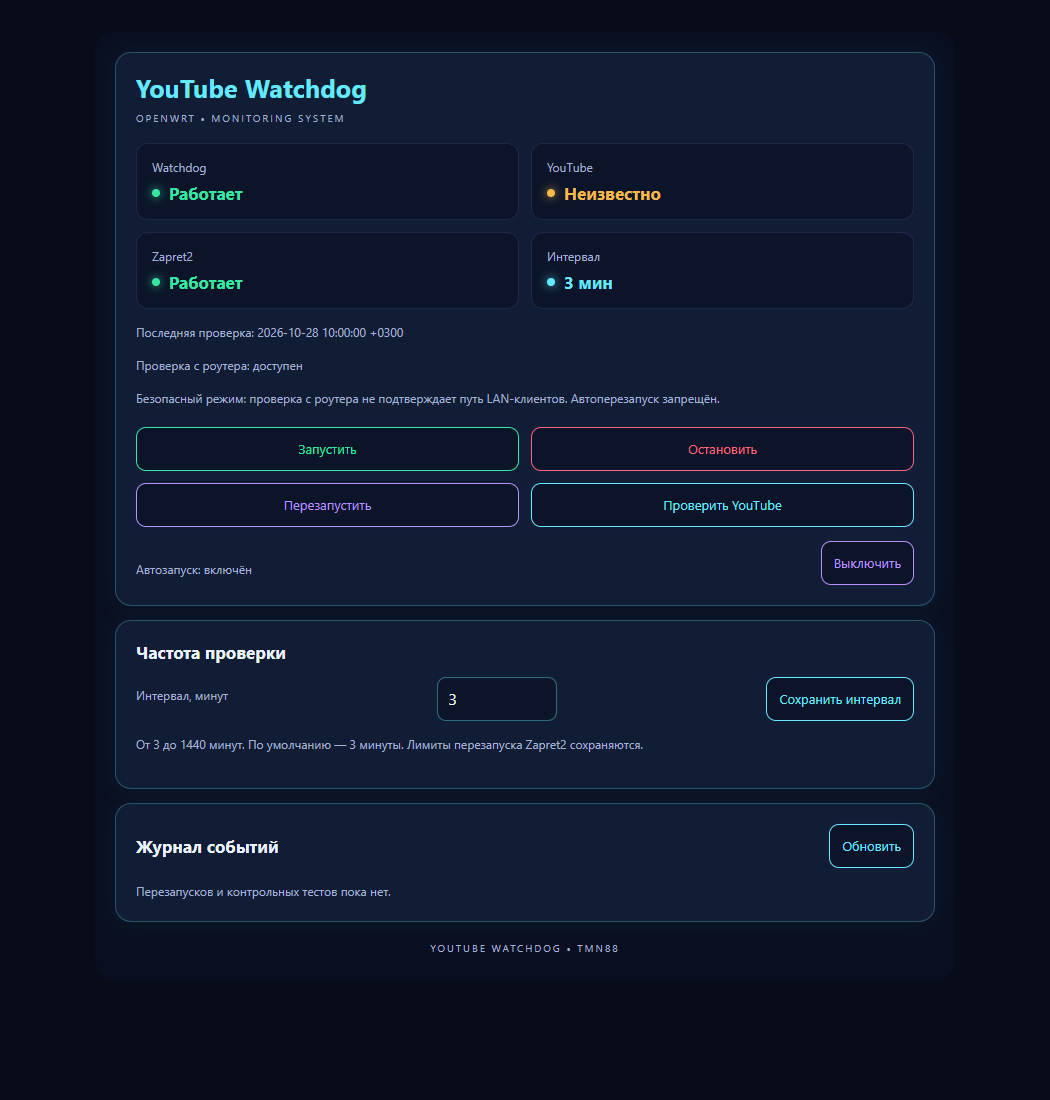
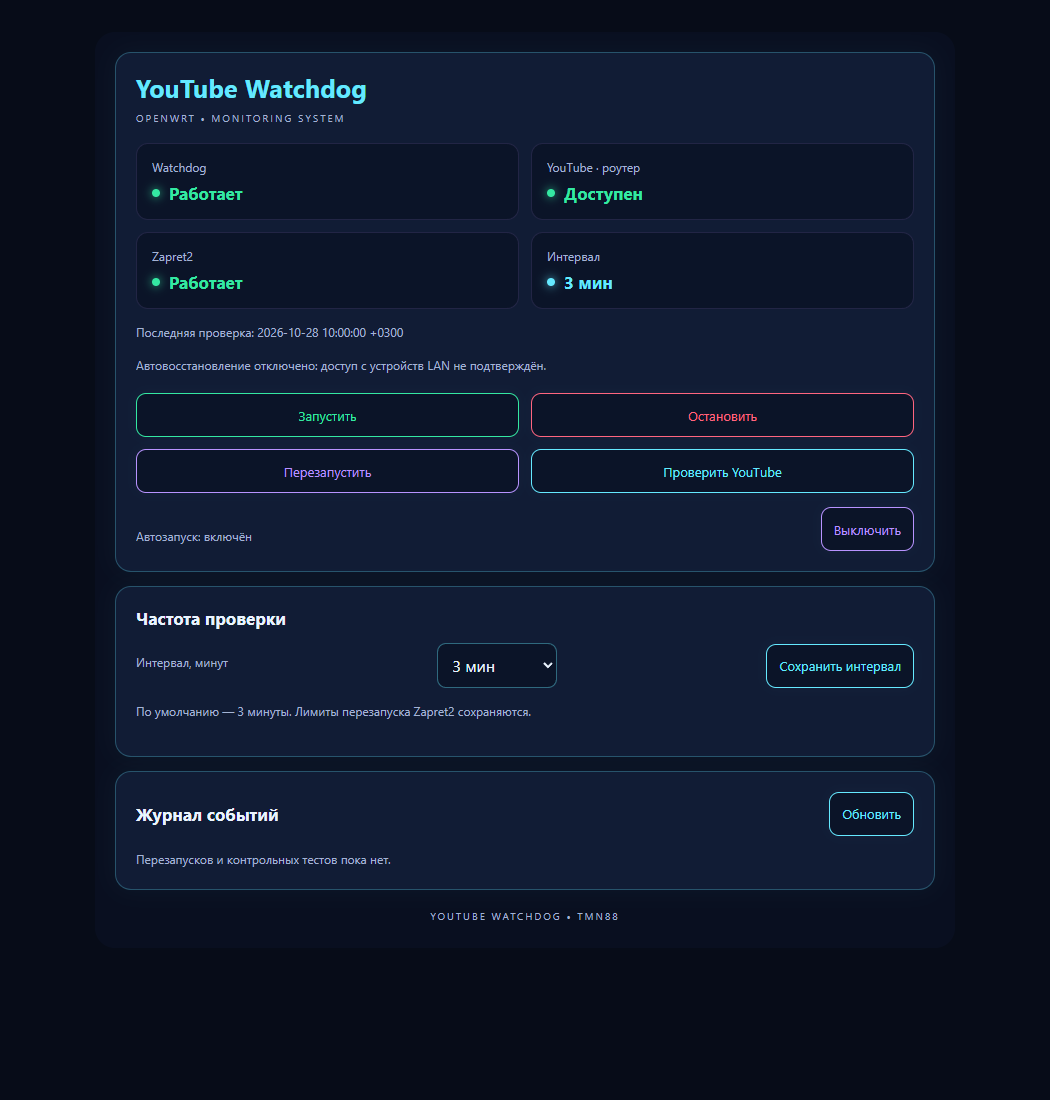
Add exact interval presets and source-scoped primary YouTube status (1.2.0)

diff --git a/preview.html b/preview.html
@@ -1,6 +1,6 @@
 <!doctype html><meta charset="utf-8"><meta name="viewport" content="width=device-width, initial-scale=1"><title>YouTube Watchdog — демонстрационные данные</title><body style="background:#070c18;margin:0;padding:20px"><script>
 window.writeAllowed=true;window.calls=[];window.polls=[];window.failInterval=false;
-var state={running:true,enabled:true,zapret_running:true,youtube:'UNKNOWN',local_probe:'HEALTHY',reason:'router_local_only',interval:180,checked_at:'2026-10-28 10:00:00 +0300'};
+var state={running:true,enabled:true,zapret_running:true,youtube:'HEALTHY',youtube_scope:'router',client_youtube:'UNKNOWN',local_probe:'HEALTHY',reason:'router_local_only',interval:180,checked_at:'2026-10-28 10:00:00 +0300'};
 var entries={events:[]};
 var E=function(tag,attrs,children){var e=document.createElement(tag);Object.keys(attrs||{}).forEach(function(k){e.setAttribute(k,attrs[k])});if(children!=null)(Array.isArray(children)?children:[children]).forEach(function(c){e.appendChild(c instanceof Node?c:document.createTextNode(String(c)))});return e};
 var L={hasViewPermission:function(){return window.writeAllowed}},ui={},poll={add:function(f){window.polls.push(f)}},view={extend:function(v){return v}},rpc={declare:function(o){return function(minutes){
@@ -22,6 +22,7 @@ var app=(function(){'use strict';
 var statusCall = rpc.declare({ object: 'youtube-watchdog', method: 'status', expect: {} });
 var logsCall = rpc.declare({ object: 'youtube-watchdog', method: 'logs', expect: {} });
 var setIntervalCall = rpc.declare({ object: 'youtube-watchdog', method: 'set_interval', params: ['minutes'], expect: {} });
+var intervalChoices = [1, 3, 5, 7, 10, 15, 20, 30];
 var actions = {};
 ['start', 'stop', 'restart', 'enable', 'disable', 'check'].forEach(function(name) {
     actions[name] = rpc.declare({ object: 'youtube-watchdog', method: name, expect: {} });
@@ -97,20 +98,20 @@ return view.extend({
         function drawStatus(s) {
             serverBusy = !!s.checking;
             stateCard.textContent = ''; buttons = buttons.filter(function(b) { return b.dataset.write === '0'; });
-            var y = s.youtube, yt = y === 'HEALTHY' ? 'Доступен' : y === 'YOUTUBE_DOWN' ? 'Недоступен' : 'Неизвестно';
+            var y = s.youtube;
+            var yt = { HEALTHY: 'Доступен', YOUTUBE_DOWN: 'Недоступен', DNS_DOWN: 'Ошибка DNS', NETWORK_DOWN: 'Ошибка сети' }[y] || 'Неизвестно';
+            var youtubeLabel = s.youtube_scope === 'lan' ? 'YouTube · LAN-клиент' : 'YouTube · роутер';
             stateCard.appendChild(E('div', { 'class': 'youtube-watchdog-title' }, 'YouTube Watchdog'));
             stateCard.appendChild(E('div', { 'class': 'youtube-watchdog-eyebrow' }, 'OPENWRT • MONITORING SYSTEM'));
             stateCard.appendChild(E('div', { 'class': 'youtube-watchdog-grid' }, [
                 tile('Watchdog', s.running ? 'Работает' : 'Остановлен', s.running ? 'ok' : 'bad'),
-                tile('YouTube', yt, y === 'HEALTHY' ? 'ok' : y === 'YOUTUBE_DOWN' ? 'bad' : 'warn'),
+                tile(youtubeLabel, yt, y === 'HEALTHY' ? 'ok' : y === 'YOUTUBE_DOWN' || y === 'DNS_DOWN' || y === 'NETWORK_DOWN' ? 'bad' : 'warn'),
                 tile('Zapret2', s.zapret_running ? 'Работает' : 'Остановлен', s.zapret_running ? 'ok' : 'bad'),
                 tile('Интервал', (s.interval || 180) % 60 ? String(s.interval) + ' сек' : String((s.interval || 180) / 60) + ' мин', 'cyan')
             ]));
             stateCard.appendChild(E('div', { 'class': 'youtube-watchdog-meta' }, 'Последняя проверка: ' + (s.checked_at || '—') + (s.checking ? ' • Проверка выполняется…' : '')));
-            var localText = { HEALTHY: 'доступен', YOUTUBE_DOWN: 'недоступен', DNS_DOWN: 'ошибка DNS', NETWORK_DOWN: 'ошибка сети', UNKNOWN: 'нет достоверного результата' };
-            stateCard.appendChild(E('div', { 'class': 'youtube-watchdog-meta' }, 'Проверка с роутера: ' + (localText[s.local_probe] || 'нет достоверного результата')));
             var notice = s.reason === 'router_local_only'
-                ? 'Безопасный режим: проверка с роутера не подтверждает путь LAN-клиентов. Автоперезапуск запрещён.'
+                ? 'Автовосстановление отключено: доступ с устройств LAN не подтверждён.'
                 : 'Проверяется доступность HTTPS с диагностического клиента. Воспроизведение видео не гарантируется.';
             if (s.reason === 'stale') notice = 'Данные устарели. Дождитесь новой проверки.';
             if (s.reason === 'client_not_configured' || s.reason === 'ssh_missing' || s.reason === 'invalid_client_user') notice = 'Диагностический клиент не настроен. Автоперезапуск запрещён.';
@@ -131,16 +132,26 @@ return view.extend({
         journal.appendChild(E('div', { 'class': 'youtube-watchdog-row' }, [E('span', { 'class': 'youtube-watchdog-heading' }, 'Журнал событий'), button('Обновить', 'cyan', 'refresh')]));
         journal.appendChild(events);
         var dirtyInterval = false;
-        var intervalInput = E('input', { 'class': 'youtube-watchdog-input', 'id': 'youtube-watchdog-interval', 'type': 'number', 'min': '3', 'max': '1440', 'step': '1', 'inputmode': 'numeric', 'aria-describedby': 'youtube-watchdog-interval-help' });
-        intervalInput.value = String(Math.ceil((data[0].interval || 180) / 60));
+        var intervalInput = E('select', { 'class': 'youtube-watchdog-input', 'id': 'youtube-watchdog-interval', 'aria-describedby': 'youtube-watchdog-interval-help' }, intervalChoices.map(function(n) { return E('option', { 'value': String(n) }, String(n) + ' мин'); }));
+        function showInterval(seconds) {
+            var minutes = seconds / 60;
+            var legacy = intervalInput.querySelector('option[value="legacy"]');
+            if (legacy) intervalInput.removeChild(legacy);
+            if (intervalChoices.indexOf(minutes) === -1) {
+                intervalInput.appendChild(E('option', { 'value': 'legacy', 'disabled': 'disabled' }, 'Текущий: ' + seconds + ' сек'));
+                intervalInput.value = 'legacy';
+            } else intervalInput.value = String(minutes);
+        }
+        showInterval(data[0].interval || 180);
         var intervalNotice = E('div', { 'class': 'youtube-watchdog-meta', 'aria-live': 'polite' });
         intervalInput.oninput = function() { dirtyInterval = true; intervalNotice.textContent = ''; };
+        intervalInput.onchange = intervalInput.oninput;
         var saveInterval = E('button', { 'class': 'youtube-watchdog-button youtube-watchdog-cyan', 'type': 'button' }, 'Сохранить интервал');
         saveInterval.onclick = function() {
             if (busy || !canWrite) return;
             var raw = intervalInput.value.trim(), minutes = Number(raw);
-            if (!/^[0-9]+$/.test(raw) || minutes < 3 || minutes > 1440) {
-                intervalNotice.textContent = 'Укажите целое число минут от 3 до 1440.'; return;
+            if (intervalChoices.indexOf(minutes) === -1) {
+                intervalNotice.textContent = 'Выберите интервал: 1, 3, 5, 7, 10, 15, 20 или 30 минут.'; return;
             }
             busy = true; disable(true); error.textContent = ''; intervalNotice.textContent = 'Сохранение…';
             Promise.resolve().then(function() { return setIntervalCall(minutes); }).then(function(result) {
@@ -158,7 +169,7 @@ return view.extend({
             E('div', { 'class': 'youtube-watchdog-row', 'style': 'margin-top:14px' }, [
                 E('label', { 'for': 'youtube-watchdog-interval', 'class': 'youtube-watchdog-label' }, 'Интервал, минут'), intervalInput, saveInterval
             ]),
-            E('div', { 'class': 'youtube-watchdog-meta', 'id': 'youtube-watchdog-interval-help' }, 'От 3 до 1440 минут. По умолчанию — 3 минуты. Лимиты перезапуска Zapret2 сохраняются.'), intervalNotice
+            E('div', { 'class': 'youtube-watchdog-meta', 'id': 'youtube-watchdog-interval-help' }, 'По умолчанию — 3 минуты. Лимиты перезапуска Zapret2 сохраняются.'), intervalNotice
         ]);
         function drawLogs(l) {
             events.textContent = '';
@@ -179,7 +190,7 @@ return view.extend({
         function refresh() {
             return Promise.all([statusCall(), logsCall()]).then(function(d) {
                 drawStatus(d[0]); drawLogs(d[1]);
-                if (!dirtyInterval && document.activeElement !== intervalInput) intervalInput.value = String(Math.ceil((d[0].interval || 180) / 60));
+                if (!dirtyInterval && document.activeElement !== intervalInput) showInterval(d[0].interval || 180);
                 disable(busy || !!d[0].checking);
             });
         }

diff --git a/files/overview.js b/files/overview.js
@@ -7,6 +7,7 @@
 var statusCall = rpc.declare({ object: 'youtube-watchdog', method: 'status', expect: {} });
 var logsCall = rpc.declare({ object: 'youtube-watchdog', method: 'logs', expect: {} });
 var setIntervalCall = rpc.declare({ object: 'youtube-watchdog', method: 'set_interval', params: ['minutes'], expect: {} });
+var intervalChoices = [1, 3, 5, 7, 10, 15, 20, 30];
 var actions = {};
 ['start', 'stop', 'restart', 'enable', 'disable', 'check'].forEach(function(name) {
     actions[name] = rpc.declare({ object: 'youtube-watchdog', method: name, expect: {} });
@@ -82,20 +83,20 @@ return view.extend({
         function drawStatus(s) {
             serverBusy = !!s.checking;
             stateCard.textContent = ''; buttons = buttons.filter(function(b) { return b.dataset.write === '0'; });
-            var y = s.youtube, yt = y === 'HEALTHY' ? 'Доступен' : y === 'YOUTUBE_DOWN' ? 'Недоступен' : 'Неизвестно';
+            var y = s.youtube;
+            var yt = { HEALTHY: 'Доступен', YOUTUBE_DOWN: 'Недоступен', DNS_DOWN: 'Ошибка DNS', NETWORK_DOWN: 'Ошибка сети' }[y] || 'Неизвестно';
+            var youtubeLabel = s.youtube_scope === 'lan' ? 'YouTube · LAN-клиент' : 'YouTube · роутер';
             stateCard.appendChild(E('div', { 'class': 'youtube-watchdog-title' }, 'YouTube Watchdog'));
             stateCard.appendChild(E('div', { 'class': 'youtube-watchdog-eyebrow' }, 'OPENWRT • MONITORING SYSTEM'));
             stateCard.appendChild(E('div', { 'class': 'youtube-watchdog-grid' }, [
                 tile('Watchdog', s.running ? 'Работает' : 'Остановлен', s.running ? 'ok' : 'bad'),
-                tile('YouTube', yt, y === 'HEALTHY' ? 'ok' : y === 'YOUTUBE_DOWN' ? 'bad' : 'warn'),
+                tile(youtubeLabel, yt, y === 'HEALTHY' ? 'ok' : y === 'YOUTUBE_DOWN' || y === 'DNS_DOWN' || y === 'NETWORK_DOWN' ? 'bad' : 'warn'),
                 tile('Zapret2', s.zapret_running ? 'Работает' : 'Остановлен', s.zapret_running ? 'ok' : 'bad'),
                 tile('Интервал', (s.interval || 180) % 60 ? String(s.interval) + ' сек' : String((s.interval || 180) / 60) + ' мин', 'cyan')
             ]));
             stateCard.appendChild(E('div', { 'class': 'youtube-watchdog-meta' }, 'Последняя проверка: ' + (s.checked_at || '—') + (s.checking ? ' • Проверка выполняется…' : '')));
-            var localText = { HEALTHY: 'доступен', YOUTUBE_DOWN: 'недоступен', DNS_DOWN: 'ошибка DNS', NETWORK_DOWN: 'ошибка сети', UNKNOWN: 'нет достоверного результата' };
-            stateCard.appendChild(E('div', { 'class': 'youtube-watchdog-meta' }, 'Проверка с роутера: ' + (localText[s.local_probe] || 'нет достоверного результата')));
             var notice = s.reason === 'router_local_only'
-                ? 'Безопасный режим: проверка с роутера не подтверждает путь LAN-клиентов. Автоперезапуск запрещён.'
+                ? 'Автовосстановление отключено: доступ с устройств LAN не подтверждён.'
                 : 'Проверяется доступность HTTPS с диагностического клиента. Воспроизведение видео не гарантируется.';
             if (s.reason === 'stale') notice = 'Данные устарели. Дождитесь новой проверки.';
             if (s.reason === 'client_not_configured' || s.reason === 'ssh_missing' || s.reason === 'invalid_client_user') notice = 'Диагностический клиент не настроен. Автоперезапуск запрещён.';
@@ -116,16 +117,26 @@ return view.extend({
         journal.appendChild(E('div', { 'class': 'youtube-watchdog-row' }, [E('span', { 'class': 'youtube-watchdog-heading' }, 'Журнал событий'), button('Обновить', 'cyan', 'refresh')]));
         journal.appendChild(events);
         var dirtyInterval = false;
-        var intervalInput = E('input', { 'class': 'youtube-watchdog-input', 'id': 'youtube-watchdog-interval', 'type': 'number', 'min': '3', 'max': '1440', 'step': '1', 'inputmode': 'numeric', 'aria-describedby': 'youtube-watchdog-interval-help' });
-        intervalInput.value = String(Math.ceil((data[0].interval || 180) / 60));
+        var intervalInput = E('select', { 'class': 'youtube-watchdog-input', 'id': 'youtube-watchdog-interval', 'aria-describedby': 'youtube-watchdog-interval-help' }, intervalChoices.map(function(n) { return E('option', { 'value': String(n) }, String(n) + ' мин'); }));
+        function showInterval(seconds) {
+            var minutes = seconds / 60;
+            var legacy = intervalInput.querySelector('option[value="legacy"]');
+            if (legacy) intervalInput.removeChild(legacy);
+            if (intervalChoices.indexOf(minutes) === -1) {
+                intervalInput.appendChild(E('option', { 'value': 'legacy', 'disabled': 'disabled' }, 'Текущий: ' + seconds + ' сек'));
+                intervalInput.value = 'legacy';
+            } else intervalInput.value = String(minutes);
+        }
+        showInterval(data[0].interval || 180);
         var intervalNotice = E('div', { 'class': 'youtube-watchdog-meta', 'aria-live': 'polite' });
         intervalInput.oninput = function() { dirtyInterval = true; intervalNotice.textContent = ''; };
+        intervalInput.onchange = intervalInput.oninput;
         var saveInterval = E('button', { 'class': 'youtube-watchdog-button youtube-watchdog-cyan', 'type': 'button' }, 'Сохранить интервал');
         saveInterval.onclick = function() {
             if (busy || !canWrite) return;
             var raw = intervalInput.value.trim(), minutes = Number(raw);
-            if (!/^[0-9]+$/.test(raw) || minutes < 3 || minutes > 1440) {
-                intervalNotice.textContent = 'Укажите целое число минут от 3 до 1440.'; return;
+            if (intervalChoices.indexOf(minutes) === -1) {
+                intervalNotice.textContent = 'Выберите интервал: 1, 3, 5, 7, 10, 15, 20 или 30 минут.'; return;
             }
             busy = true; disable(true); error.textContent = ''; intervalNotice.textContent = 'Сохранение…';
             Promise.resolve().then(function() { return setIntervalCall(minutes); }).then(function(result) {
@@ -143,7 +154,7 @@ return view.extend({
             E('div', { 'class': 'youtube-watchdog-row', 'style': 'margin-top:14px' }, [
                 E('label', { 'for': 'youtube-watchdog-interval', 'class': 'youtube-watchdog-label' }, 'Интервал, минут'), intervalInput, saveInterval
             ]),
-            E('div', { 'class': 'youtube-watchdog-meta', 'id': 'youtube-watchdog-interval-help' }, 'От 3 до 1440 минут. По умолчанию — 3 минуты. Лимиты перезапуска Zapret2 сохраняются.'), intervalNotice
+            E('div', { 'class': 'youtube-watchdog-meta', 'id': 'youtube-watchdog-interval-help' }, 'По умолчанию — 3 минуты. Лимиты перезапуска Zapret2 сохраняются.'), intervalNotice
         ]);
         function drawLogs(l) {
             events.textContent = '';
@@ -164,7 +175,7 @@ return view.extend({
         function refresh() {
             return Promise.all([statusCall(), logsCall()]).then(function(d) {
                 drawStatus(d[0]); drawLogs(d[1]);
-                if (!dirtyInterval && document.activeElement !== intervalInput) intervalInput.value = String(Math.ceil((d[0].interval || 180) / 60));
+                if (!dirtyInterval && document.activeElement !== intervalInput) showInterval(d[0].interval || 180);
                 disable(busy || !!d[0].checking);
             });
         }

diff --git a/README.md b/README.md
@@ -2,7 +2,7 @@
 
 Отдельная служба OpenWrt **24.10.x (opkg)** / **25.12.x (apk)** с русской страницей **LuCI → Службы → YouTube Watchdog**. POSIX shell, BusyBox, procd, UCI, curl; без Python на роутере, Blockcheck2, подбора стратегий и перезагрузок.
 
-> По умолчанию установлен **безопасный режим**: выполняются проверки с роутера, а клиентский статус YouTube остаётся **UNKNOWN / «Неизвестно»**. Автоматические перезапуски запрещены. Для них необходим отдельный диагностический LAN-клиент, настроенный согласно [CLIENT.md](CLIENT.md). Router-local OUTPUT не доказывает работу LAN/FORWARD.
+> По умолчанию установлен **безопасный режим**: главная карточка **«YouTube · роутер»** показывает результат проверки с роутера клиента. Автоматические перезапуски запрещены. Доступ с устройств LAN отдельно не подтверждён; для восстановления нужен диагностический LAN-клиент, настроенный согласно [CLIENT.md](CLIENT.md). Router-local OUTPUT не доказывает работу LAN/FORWARD.
 
 ## Установка
 
@@ -12,7 +12,7 @@
 wget -O /tmp/youtube-watchdog-install.sh https://raw.githubusercontent.com/TMN88/youtube-watchdog/main/install.sh && sh /tmp/youtube-watchdog-install.sh
 ```
 
-Выполнять от root на OpenWrt с LuCI. Установщик проверяет версию, определяет apk/opkg, устанавливает только недостающие `curl ca-bundle flock rpcd luci-base` (и `coreutils-timeout`, если нет команды timeout), скачивает комплект **1.1.0** по закреплённому commit, сверяет SHA256SUMS, проверяет shell и JSON, размещает файлы и регистрирует RPC. Затем включает автозапуск и запускает Watchdog. Если LuCI уже открыта, обновите вкладку. Отдельная Custom Commands не требуется.
+Выполнять от root на OpenWrt с LuCI. Установщик проверяет версию, определяет apk/opkg, устанавливает только недостающие `curl ca-bundle flock rpcd luci-base` (и `coreutils-timeout`, если нет команды timeout), скачивает комплект **1.2.0** по закреплённому commit, сверяет SHA256SUMS, проверяет shell и JSON, размещает файлы и регистрирует RPC. Затем включает автозапуск и запускает Watchdog. Если LuCI уже открыта, обновите вкладку. Отдельная Custom Commands не требуется.
 
 При повторной установке существующий `/etc/config/youtube-watchdog` сохраняется целиком. Файлы предыдущей версии сохраняются во временной папке до окончания установки; ошибка применения вызывает откат файлов и прежнего состояния службы. Зависимости не удаляются при откате. SHA256SUMS защищает от неполной/несогласованной загрузки; это не независимая цифровая подпись.
 
@@ -26,19 +26,21 @@ wget -O /tmp/youtube-watchdog-install.sh https://raw.githubusercontent.com/TMN88
 
 Установщик освобождает блокировку проверки перед запуском procd-службы. В версиях до 1.0.2 первый фоновый цикл мог пропускаться, пока установщик ещё держал блокировку, поэтому время первой проверки появлялось только после следующего интервала или ручного `youtube-watchdog check`. Переустановка для уже работающей службы не обязательна: ручная проверка безопасна и не перезапускает Zapret2. Если локальная проверка прошла, `local_probe` показывает HEALTHY, но в безопасном режиме клиентский `youtube` остаётся UNKNOWN.
 
-### Настройка частоты — 1.1.0
+### Настройка частоты и источник статуса — 1.2.0
 
-В LuCI → Службы → YouTube Watchdog появилась карточка **«Частота проверки»**. Укажите целое число от **3 до 1440 минут** и нажмите **«Сохранить интервал»**. По умолчанию — 3 минуты. Настройка сохраняется в собственный UCI-параметр Watchdog и подхватывается работающим демоном без перезапуска: ожидание следующей проверки пересчитывается в течение 5 секунд. Выполняющийся сетевой тест не прерывается. При увеличении интервала ожидание продлевается, при уменьшении уже истёкшего интервала проверка запускается после обработки изменения. Повторное сохранение того же значения не записывает UCI заново. Неверный тип, дробь и значения вне диапазона отклоняются сервером; RPC может изменять только этот параметр.
+В LuCI → Службы → YouTube Watchdog, в карточке **«Частота проверки»**, выберите **1, 3, 5, 7, 10, 15, 20 или 30 минут** и нажмите **«Сохранить интервал»**. По умолчанию — 3 минуты. Настройка сохраняется в собственный UCI-параметр Watchdog и подхватывается работающим демоном без перезапуска: ожидание следующей проверки пересчитывается в течение 5 секунд. Выполняющийся сетевой тест не прерывается. При увеличении интервала ожидание продлевается, при уменьшении уже истёкшего интервала проверка запускается после обработки изменения. Повторное сохранение того же значения не записывает UCI заново. Сервер разрешает только восемь указанных значений и может менять только этот параметр.
 
-Изменение интервала не меняет лимиты восстановления Zapret2. Поле ввода не сбрасывается при автоматическом обновлении страницы. Строка **«Проверка с роутера»** отдельно показывает локальную диагностику; верхний клиентский статус YouTube в безопасном режиме остаётся UNKNOWN. Доступность HTTPS с роутера не доказывает воспроизведение видео у клиентов.
+Изменение интервала не меняет лимиты восстановления Zapret2. Выбор не сбрасывается при автоматическом обновлении страницы. Отдельной строки «Проверка с роутера» больше нет: результат показан в главной карточке с явным источником **«YouTube · роутер»**. В режиме SSH она называется **«YouTube · LAN-клиент»** и использует результат выбранного LAN-устройства. При отсутствии или устаревании измерения показывается «Неизвестно»; ошибки DNS/общей сети имеют собственные подписи. Доступность HTTPS не доказывает воспроизведение видео.
+
+В `status` поле `youtube` содержит отображаемый результат, а `youtube_scope` — `router` или `lan`. Поле `client_youtube` сохраняет отдельную оценку клиентского пути; в безопасном режиме это UNKNOWN. Внутренняя логика восстановления использует только подтверждённую LAN-проверку, а не отображаемый router-local статус.
 
 ## Работа
 
-* Первое измерение — при запуске procd, последующие — через 180 секунд **после завершения предыдущего цикла**. Пока DNS/контрольный HTTPS не готовы, восстановление запрещено. Фактическое время между началами проверок включает длительность измерения.
+* Первое измерение — при запуске procd, последующие — через выбранный интервал (по умолчанию 180 секунд) **после завершения предыдущего цикла**. Пока DNS/контрольный HTTPS не готовы, восстановление запрещено. Фактическое время между началами проверок включает длительность измерения.
 * Отдельно проверяется DNS четырёх доменов, внешний контроль `https://example.com/` и три ресурса YouTube: `https://www.youtube.com/generate_204`, `https://i.ytimg.com/generate_204`, `https://youtubei.googleapis.com/`.
 * Только IPv4, TCP, HTTPS с проверкой сертификата и имени узла. curl не читает пользовательский curlrc и обходит переменные HTTP-прокси. Подключение — до 4 секунд, запрос — до 8 секунд, DNS — до 6 секунд; запросы последовательные.
 * Для доступности нужны минимум два из трёх ресурсов. HTTP 403/404/405 от YouTube означает завершённый TLS/HTTP-обмен, а не сетевой обрыв; API не требует ключей. Ответы 5xx, 429 и ошибки сертификатов дают неопределённость, а не основание для перезапуска. Для контрольного сайта 403/404 не считаются успехом.
-* «Доступен» означает доступность нескольких HTTPS-ресурсов с диагностического клиента. Это **не гарантия воспроизведения**, работы googlevideo CDN, авторизации или каждого устройства LAN.
+* «Доступен» означает доступность нескольких HTTPS-ресурсов с указанного источника: роутера или диагностического LAN-клиента. Это **не гарантия воспроизведения**, работы googlevideo CDN, авторизации или каждого устройства LAN.
 * В режиме SSH подтверждённый отказ — минимум две ошибки транспорта YouTube при рабочем контроле и DNS. Через 10 секунд проводится повторная полная проверка. Общесетевой/DNS/TLS-сбой или недостоверный ответ запрещает перезапуск.
 * Перед восстановлением проверяются существование и исполняемость `/etc/init.d/zapret2` и успешное `running`. Только штатная команда `restart`, ограниченная 40 секундами. Остановленный/отсутствующий Zapret2 не запускается.
 * Попытки восстановления: минимум 900 секунд между ними, максимум три за скользящие 3600 секунд. Учёт — монотонное время `/proc/uptime`; неуспешная команда тоже расходует лимит.
@@ -75,7 +77,7 @@ config watchdog 'main'
     option client_confirmed '0'
 ```
 
-В UCI интервал хранится в секундах: диапазон 180–86400; некорректное значение заменяется на 180. В LuCI настройка задаётся целыми минутами и применяется автоматически. При ручном редактировании UCI можно выполнить `/etc/init.d/youtube-watchdog restart`, чтобы применить изменение сразу. Предыдущий результат после изменения UCI или истечения срока годности отображается как UNKNOWN. Причины представлены стабильными кодами в `status`.
+В UCI интервал хранится в секундах. Для сохранения совместимости с прежними пользовательскими конфигурациями демон принимает 60–86400 секунд; некорректное значение заменяется на 180. LuCI и RPC разрешают только восемь перечисленных значений. Старое нестандартное значение сохраняется при обновлении и отображается в списке как текущее до выбора нового. При ручном редактировании UCI можно выполнить `/etc/init.d/youtube-watchdog restart`, чтобы применить изменение сразу. Устаревший результат отображается как UNKNOWN. Причины представлены стабильными кодами в `status`.
 
 ## Удаление
 

diff --git a/VALIDATION.md b/VALIDATION.md
@@ -36,6 +36,12 @@ sha256sum -c SHA256SUMS
 
 Реальный JavaScript view проверен в отдельном Chromium с имитацией LuCI/RPC: сохранение 5 минут, защита от двойного клика, валидация, ошибка сервера, сохранение незавершённого ввода при polling, запрет изменений для сессии без write-прав, отдельная строка локальной диагностики, мобильная ширина 390 px без переполнения. Предпросмотр и снимки обновлены из реального view. Запуск: node tests/settings.cjs; node tests/ui.cjs (для UI нужен Playwright и локальный Chrome; на роутер они не устанавливаются).
 
+## Статус и фиксированные интервалы 1.2.0
+
+Главная карточка показывает результат с явным источником «роутер» или «LAN-клиент», без отдельной строки локальной проверки. Поле client_youtube и внутренняя логика восстановления остаются консервативными: локальный HEALTHY не разрешает перезапуск. Добавлены четыре адресных сценария: доступный роутер при неизвестном клиентском пути, просроченный результат, отказ LAN при доступном роутере и отображение ошибки DNS. Всего 41 проверка службы Windows / 43 Linux.
+
+Настройка интервала теперь содержит ровно восемь вариантов 1, 3, 5, 7, 10, 15, 20, 30 минут. 20 RPC-сценариев проверяют все варианты, запрет других значений и типов, отсутствие повторной записи и ошибку сохранения. Проверена поддержка 60 секунд в демоне. Chromium-проверка подтверждает состав списка, сохранение выбора при polling, отсутствие удалённой строки, подписи источника для router/LAN и мобильный вид. Новая версия на роутере пока не проверялась.
+
 ## Не подтверждено аппаратным испытанием
 
 Настоящие установка/обновление пакетов opkg и apk, загрузка через procd после перезагрузки, регистрация RPC в штатном rpcd, разрешения реальной сессии LuCI, сочетания тем Argon/Footstrap/Aurora и реальный клиентский путь с Zapret2. В этих пунктах реализованы стандартные файлы и интерфейсы OpenWrt, но локальные моки не доказывают совместимость оборудования.

diff --git a/CLIENT.md b/CLIENT.md
@@ -1,6 +1,6 @@
 # Отдельный диагностический LAN-клиент
 
-Без него используйте `mode=safe`: статус клиентского доступа UNKNOWN, восстановление запрещено. Указание `mode=ssh` без `client_confirmed=1`, валидного частного IPv4, ключа и known_hosts также не разрешает восстановление.
+Без него используйте `mode=safe`: карточка «YouTube · роутер» показывает локальное измерение, поле client_youtube остаётся UNKNOWN, восстановление запрещено. Указание `mode=ssh` без `client_confirmed=1`, валидного частного IPv4, ключа и known_hosts также не разрешает восстановление.
 
 Подходящий клиент — отдельный Linux/OpenWrt-хост в нужном LAN/VLAN, который действительно ходит через этот роутер. **Это не сам роутер, не VPS, не Tailscale-адрес и не устройство с собственным VPN/прокси/другим шлюзом.** Клиент должен попадать в те же правила Zapret2, DNS и маршрутизации, что проверяемая группа устройств. Если разные VLAN/исключения имеют разные правила, один клиент характеризует только свою группу.
 
